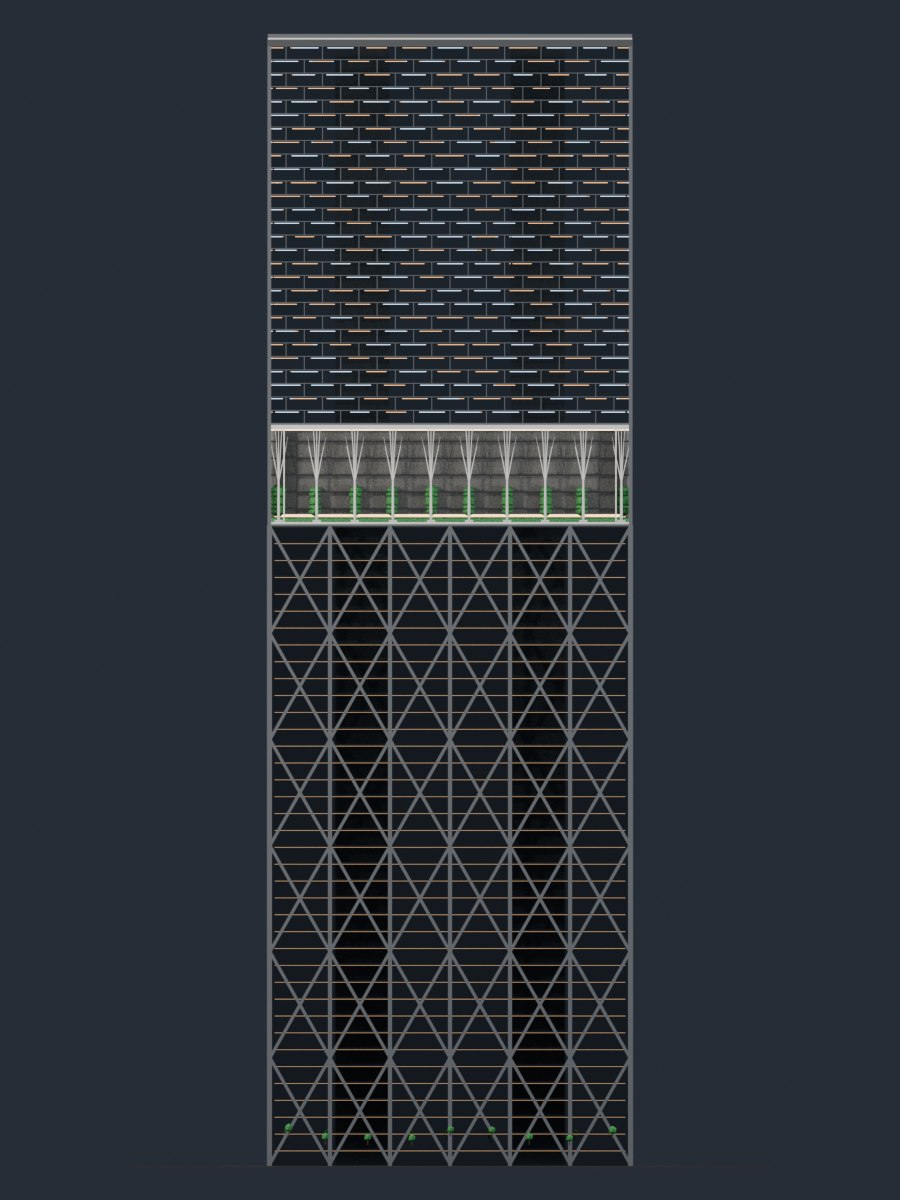
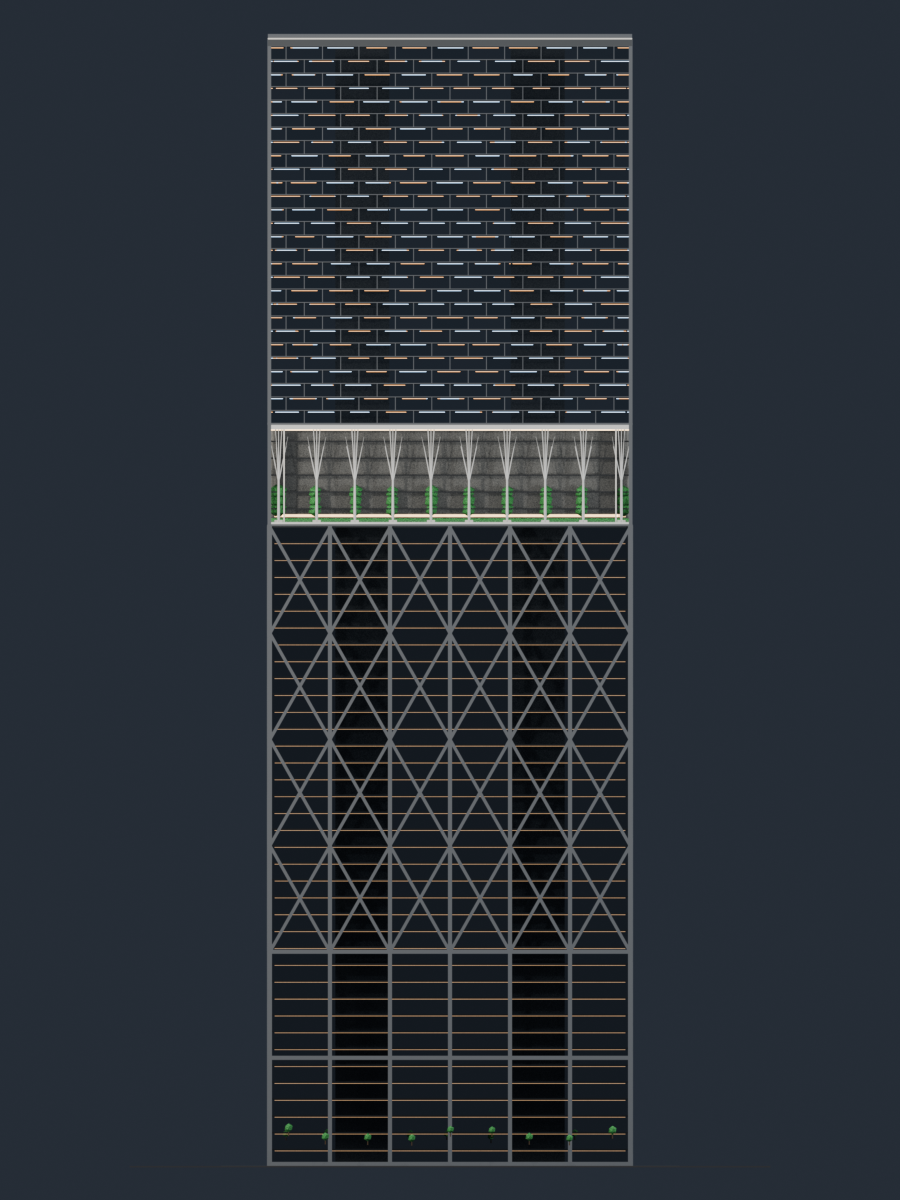
feat: close the bottom two Stack 3 tiers with framed cells
The two lowest rows of X braces are gone. Each cell there is now a big glazed
square closed by the thick frame members - six per row, two rows - and the X
lattice starts from the third tier up.

Changed region(s): [[0.28, 0.7708, 0.7156, 0.9867]]

diff --git a/build_stack3.py b/build_stack3.py
@@ -324,6 +324,8 @@ def build_materials(night=False):
         "slab": materials.make_concrete("Stack3_Slab", color=(0.34, 0.35, 0.35)),
         "slab_dark": materials.make_concrete("Stack3_Slab_Dark",
                                              color=(0.040, 0.042, 0.045)),
+        "panel_dark": materials.make_wall("Stack3_Panel_Dark",
+                                          color=(0.085, 0.088, 0.092)),
         "core": materials.make_concrete("Stack3_Core", color=(0.10, 0.11, 0.12)),
         "ground": make_unlit("Stack3_Ground", (0.055, 0.055, 0.058)),
         "plaza": make_unlit("Stack3_Plaza", (0.085, 0.085, 0.082)),
@@ -473,7 +475,7 @@ def build_lattice(mats, cols):
         du = 2 * hw / n
         dz = ((z1 - z0) - 2 * inset) / tiers
         for i in range(n):
-            for j in range(tiers):
+            for j in range(2, tiers):
                 u0 = -hw + i * du
                 u1 = u0 + du
                 za = z0 + inset + j * dz
@@ -483,6 +485,18 @@ def build_lattice(mats, cols):
                 brace.bar(fp(face, u0, zb, -0.05), fp(face, u1, za, -0.05),
                           0.66, 0.95)
     brace.finish()
+
+    # The bottom two tiers carry no X: each cell becomes a big thick-framed
+    # square/rectangle of glass, two rows of six, closing the base.
+    rails = Part("Lattice_Base_Rails", mats["silver"], col)
+    for face in FACES:
+        half = face_half(face)
+        rail_h = 0.62
+        for j in (0, 1, 2):
+            z = z0 + inset + j * ((z1 - z0) - 2 * inset) / tiers
+            rails.face_box(face, -half, half, z - rail_h, z + rail_h,
+                           -0.34, 0.60)
+    rails.finish()
 
     # Warm hall below, cool floors above; one strip per 5 m storey.
     warm = Part("Lattice_Lights_Warm", mats["light_glow"], col)

diff --git a/verify_stack3.py b/verify_stack3.py
@@ -93,9 +93,13 @@ def main():
         and abs(z_span("Lattice_Glass")[1] - 189.8) < 0.05,
         "lattice carries a frame and X braces": (
             present("Lattice_Frame") and present("Lattice_Braces")),
-        "lattice braces span the full band": (
-            0.20 <= z_span("Lattice_Braces")[0] <= 0.60
+        "lattice braces start above the solid base panels": (
+            63.0 <= z_span("Lattice_Braces")[0] <= 64.0
             and 189.3 <= z_span("Lattice_Braces")[1] <= 189.8),
+        "bottom two tiers are framed cells, not X": (
+            present("Lattice_Base_Rails")
+            and abs(z_span("Lattice_Base_Rails")[0] - 0.0) < 0.05
+            and abs(z_span("Lattice_Base_Rails")[1] - 64.2) < 0.6),
         "no parking band remains": not any(
             n.startswith("Stack3_Parking") for n in names),
         "no fin band or old base remains": not any(

diff --git a/README.md b/README.md
@@ -243,8 +243,9 @@ lower block carries 38 floors in that height; the apartments keep their 4 m
 module and run 28 floors.
 
 - **Lattice, 0-190 m.** The whole lower block is one facade: an external frame six
-  bays wide by six tiers tall, with an X brace in every cell - six crosses per
-  row, six rows. The frame carries vertical posts only: no added horizontal
+  bays wide by six tiers tall. The bottom two tiers are framed cells - six big
+  glazed squares per row, closed by thick members, no X - and the upper four
+  tiers carry an X brace in every cell. The frame carries vertical posts only: no added horizontal
   band, the floor line is the dark slab edge itself; every floor plate in the
   model is near-black. Behind it is one dark glass skin with no visible pane
   joints at all - no mullions between the panes - and a soft warm ceiling strip
